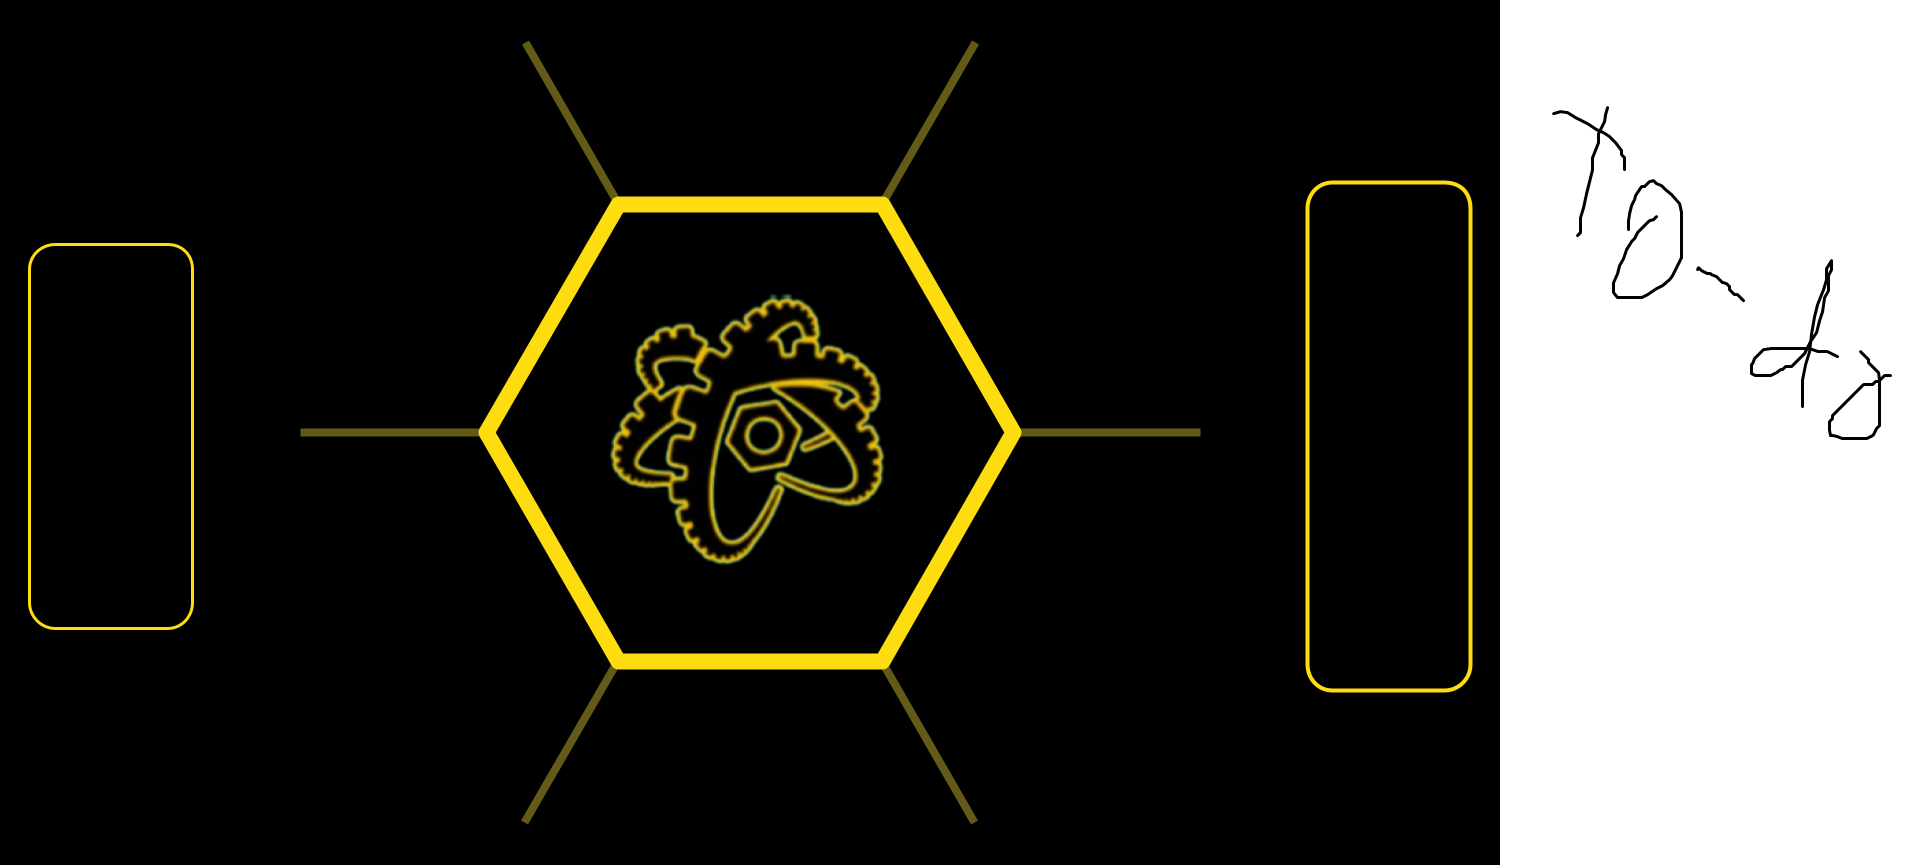
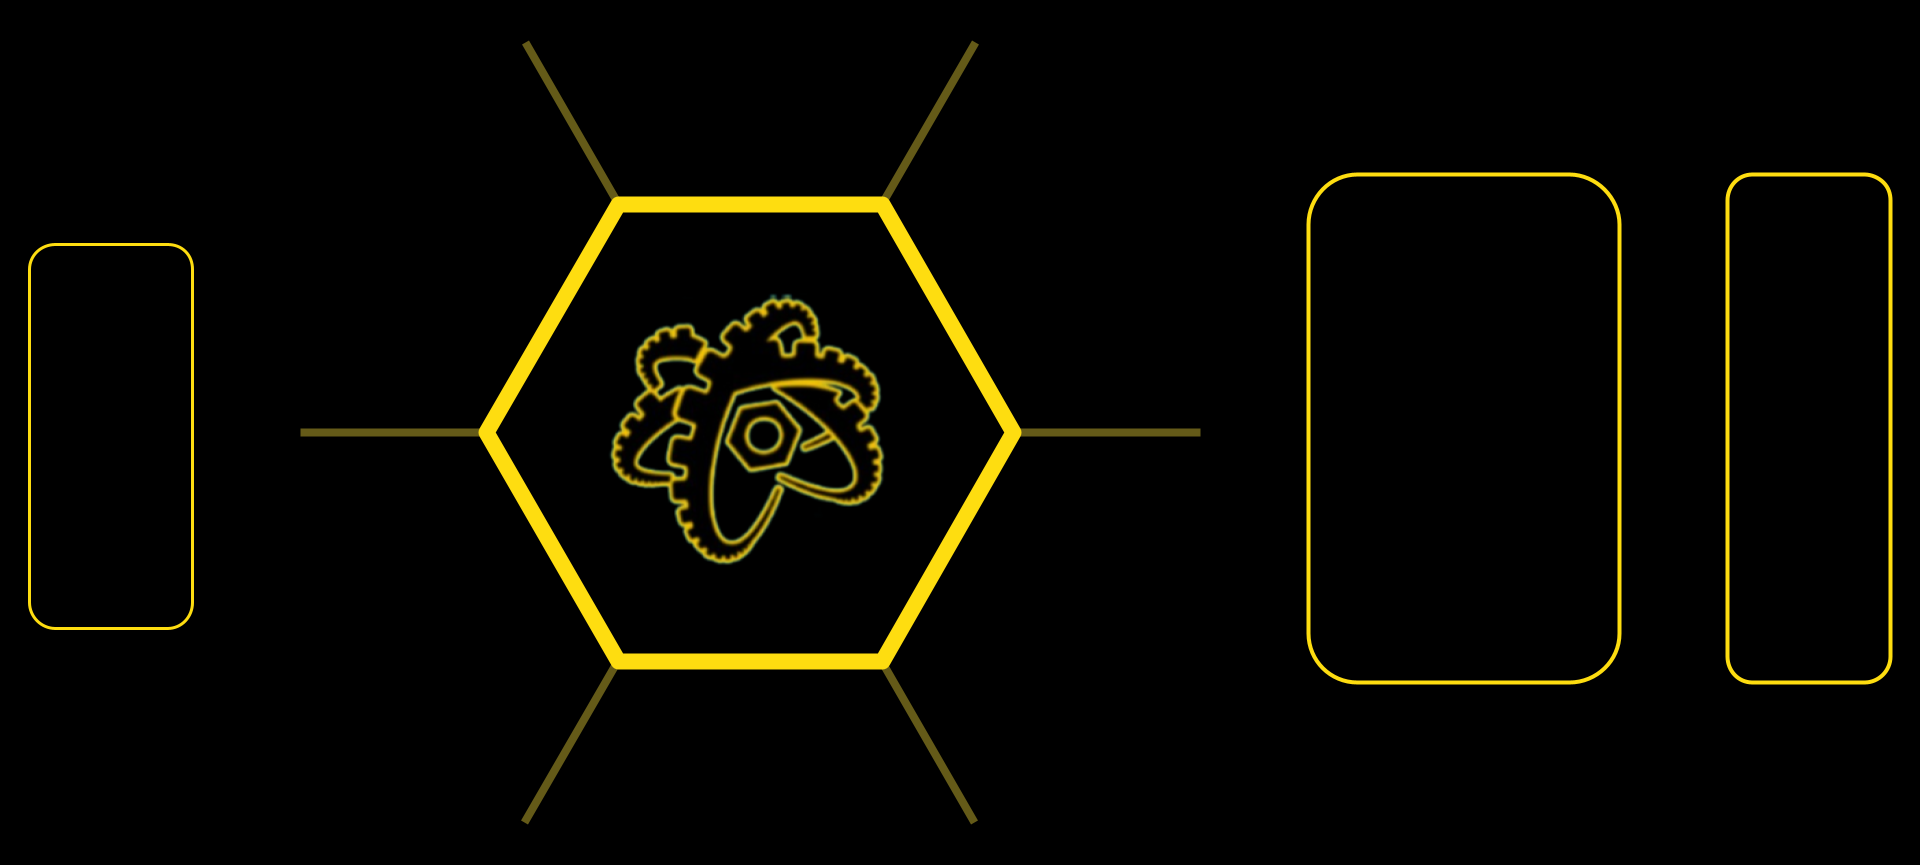
better GUI and updated background!

Changed region(s): [[0.6875, 0.0, 1.0, 1.0], [0.6562, 0.7491, 0.6875, 0.7803], [0.6562, 0.2185, 0.6875, 0.2497]]

diff --git a/subsystems/interface.py b/subsystems/interface.py
@@ -38,8 +38,8 @@ class Interface:
             -50 : ["a", BranchButtonVisualObject("go", (111, 865/2), "GO")],
             -49 : ["a", BranchButtonVisualObject("processor", (111, 865/2+110), "PS")],
 
-            -30 : ["a", VerticalSliderVisualObject("GO", (1420, 500), [233,632])],
-            -29 : ["a", VerticalSliderVisualObject("NOW", (1580, 500), [233,632])],
+            -30 : ["a", VerticalSliderVisualObject("GO", (1375, 500), [round(865/2-200)-30,round(865/2+200)-30])],
+            -29 : ["a", VerticalSliderVisualObject("NOW", (1505, 500), [round(865/2-200)-30,round(865/2+200)-30])],
         }
 
         for i in range(12):
@@ -115,8 +115,9 @@ class Interface:
             self.ivos[self.interacting][1].keepInFrame(SECTION_DATA[3][0],SECTION_DATA[3][1],SECTION_DATA[4][0],SECTION_DATA[4][1])
 
         '''DASHBOARD THINGS'''
+        lastCommsMode = self.comms.mode
         self.comms.tick()
-        if self.mRising or self.interacting != self.previousInteracting:
+        if self.mRising or self.interacting != self.previousInteracting or self.interacting != -999 or self.previousInteracting != -999:
             self.needUpdate = True
         if self.mRising:
             if 0 <= self.interacting <= 11:
@@ -127,7 +128,6 @@ class Interface:
                 self.comms.setSelectedAlgae(self.interacting - 70)
             elif self.interacting == -51:
                 self.comms.mode = "reset"
-                self.ivos[-30][1].setPercent(self.comms.getCurrentElevator())
                 self.comms.transmit()
             elif self.interacting == -50:
                 self.comms.transmit()
@@ -143,6 +143,7 @@ class Interface:
             self.lastElevatorPos = self.comms.getCurrentElevator()
             self.ivos[-29][1].setPercent(self.lastElevatorPos)
             self.needUpdate = True
+        if lastCommsMode == "elevator" and self.comms.mode != "elevator": self.ivos[-30][1].setPercent(self.lastElevatorPos)
 
         alliance = ("blue" if self.comms.getBlueAlliance() else "red") if self.comms.getIsConnected() else "disconnected"
         if self.alliance != alliance:
@@ -175,8 +176,9 @@ class Interface:
         if not(COMMS):
             placeOver(img, displayText("Comms has been disabled!", "m", colorTXT=(255,100,100,255)), (20,160))
 
-        placeOver(img, displayText("FRC 1155 {}".format(self.comms.getMatch()), "m", colorTXT=(255,255,12,255)), (20,90))
-        placeOver(img, displayText("Time Left: {} s".format(round(self.comms.getMatchTime()*10)/10), "m", colorTXT=(255,255,12,255)), (20,125))
+        placeOver(img, displayText("Mode: {}".format(self.comms.mode), "m", colorTXT=(255,255,255,255)), (20,90))
+        placeOver(img, displayText("FRC 1155 {}".format(self.comms.getMatch()), "m", colorTXT=(255,255,12,255)), (20,125))
+        placeOver(img, displayText("Time Left: {} s".format(round(self.comms.getMatchTime()*10)/10), "m", colorTXT=(255,255,12,255)), (20,160))
 
         connected = self.comms.getIsConnected()
         placeOver(img, displayText("Comms: Connected: {}".format(connected), "m", colorTXT=(100,255,100,255) if connected else (255,100,100,255)), (20,750))
@@ -200,19 +202,19 @@ class Interface:
         for id in self.ivos:
             if self.ivos[id][0] == "a":
                 if 0 <= id <= 11:
-                    self.ivos[id][1].tick(img, self.interacting==id, self.interacting==id or id=="ABCDEFGHIJKL ".find(self.comms.selectedBranch))
+                    self.ivos[id][1].tick(img, self.interacting==id or id=="ABCDEFGHIJKL ".find(self.comms.selectedBranch))
                 elif 51 <= id <= 54:
-                    self.ivos[id][1].tick(img, self.interacting==id, self.interacting==id or id==self.comms.selectedLevel+50)
+                    self.ivos[id][1].tick(img, self.interacting==id or id==self.comms.selectedLevel+50)
                 elif id == -49:
-                    self.ivos[id][1].tick(img, self.interacting==id, self.interacting==id or self.comms.selectedProcessor)
+                    self.ivos[id][1].tick(img, self.interacting==id or self.comms.selectedProcessor)
                 elif 70 <= id <= 75:
-                    self.ivos[id][1].tick(img, self.interacting==id, self.interacting==id or id==self.comms.selectedAlgae+70)
+                    self.ivos[id][1].tick(img, self.interacting==id or id==self.comms.selectedAlgae+70)
                 elif id == -30:
-                    self.ivos[id][1].tick(img, self.interacting==id, self.interacting==id or self.comms.mode == "elevator")
+                    self.ivos[id][1].tick(img, self.interacting==id or self.comms.mode == "elevator")
                 elif id == -29:
-                    self.ivos[id][1].tick(img, self.interacting==id, self.interacting==id)
+                    self.ivos[id][1].tick(img, self.interacting==id)
                 else:
-                    self.ivos[id][1].tick(img, self.interacting==id, self.interacting==id)
+                    self.ivos[id][1].tick(img, self.interacting==id)
 
         return img    
 

diff --git a/subsystems/lib/visuals.py b/subsystems/lib/visuals.py
@@ -91,7 +91,7 @@ class BranchButtonVisualObject(VisualObject):
         
         self.img = self.imgDisconnected
         self.positionO = RectangularPositionalBox((self.img.width,self.img.height), pos[0] - 50, pos[1] - 50)
-    def tick(self, img, visualactive, active):
+    def tick(self, img, active):
         if active: self.lastInteraction = time.time()
         placeOver(img, self.imgActive if active else self.img, self.positionO.getPosition(), False)
     def setAlliance(self, alliance):
@@ -125,10 +125,10 @@ class VerticalSliderVisualObject(VisualObject):
         self.imgActive = generateBorderBox((50,50), 3, (254,221,16,255), (100,50,0,100))
         placeOver(self.imgActive, overlayText, (25,25), True)
         
-    def tick(self, img, visualactive, active):
+    def tick(self, img, active):
         if active: self.lastInteraction = time.time()
         placeOver(img, self.bar, self.origPos)
-        placeOver(img, self.imgActive if visualactive else self.imgIdle, self.positionO.getPosition())
+        placeOver(img, self.imgActive if active else self.imgIdle, self.positionO.getPosition())
     def updatePos(self, rmx, rmy):
         self.positionO.setY(max(self.limitY[0], min(rmy, self.limitY[1])))
     def setPercent(self, percent):

diff --git a/subsystems/comms.py b/subsystems/comms.py
@@ -85,8 +85,8 @@ class Comms:
             self.entryDashboardTick.setInteger(value=self.dashboardTick)
 
     def getCurrentElevator(self) -> float:
-        if COMMS: return self.entryCurrentElevator.getDouble(defaultValue=0.0)
-        else: return 0.0
+        if COMMS: return self.entryCurrentElevator.getDouble(defaultValue=1.0)
+        else: return 1.0
     
     def getMatch(self) -> str:
         if COMMS: return self.entryMatch.getString(defaultValue="@ None / M0")
@@ -166,9 +166,13 @@ class Comms:
         self.entryRequest.setString(value="")
         robotTick = self.getRobotTick()
         start = time.time()
+        i = 0
         while abs(self.getRobotTick()-robotTick) < 10:
-            if (time.time() - start) > 1:
+            time.sleep(0.05)
+            i += 1
+            if abs(time.time() - start) > 0.2:
                 break
+        print(f"sus {i}")
         self.entryRequest.setString(value=request)
 
     def transmit(self) -> None:
